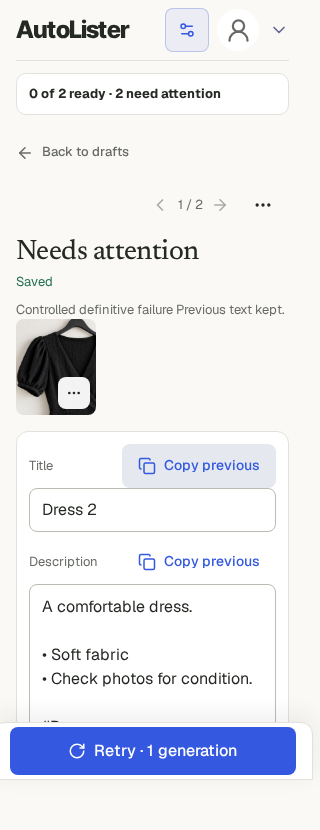
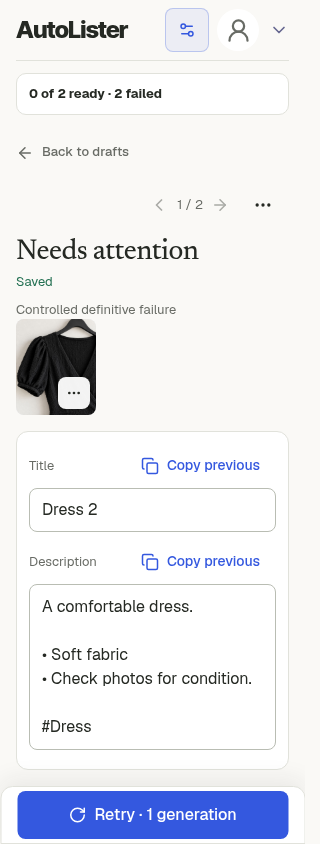
Document final verified batch and single flows with independent GO

diff --git a/docs/reviews/2026-10-16-final/acceptance.md b/docs/reviews/2026-10-16-final/acceptance.md
@@ -1,126 +1,70 @@
-# Batch and single-flow acceptance
+# Verification and limits
 
-Status: local candidate. Nothing in this review establishes production delivery or historical customer recovery.
+The final source and package passed root verification and a totally fresh independent review: **GO, no open confirmed findings**. Both minor copy findings were corrected and independently rechecked on the exact final commits. API `ea5966b` is deployed to production. Deployment 7136156767 succeeded in Production quick-vint-api, and the public app bundle plus all four shared helpers byte-match the final build. The extension production pipeline passed and pushed frontend `b1088b1`. The [Chrome Store upload-and-submit workflow](https://github.com/samicodesit/quick-vint-frontend/actions/runs/39012948783) is running its own checks. Upload and submission are not yet confirmed; Store version 1.4.16 remains live. See the [independent report](independent-review.md) for scope and limits.
 
-## Product contracts
+## Intended experience
 
-- Start remains an explicit seller action. Each extension listing opens in front while preparing unless the seller has paused auto-follow, started editing, or moved to another tab.
-- Brief connection loss waits and retries the same prepared request. It does not require another Start or Resume click.
-- Stop and a closed work tab preserve recovery data. Explicit Resume remains available when required.
-- Completion requires loaded host photos and stable generated fields. Hidden-tab waiting does not establish failure.
-- Recovery and late diagnostics remain bound to the originating account, batch, item and generation attempt.
-- The separate web app stays on its compact batch overview. Each ready row offers Review while later items continue. Entering a draft retains progress without automatic navigation or overwriting edits.
-- Queued replacement text cannot be copied or marked as a freshly generated result. After a definitive failure, existing Copy buttons explicitly say Copy previous, preserving access to earlier work without a paid retry. The item remains Needs attention, and automatic review navigation excludes it.
-- Phone upload uses a progress-based idle deadline, automatic bounded retry and explicit Cancel. A progressing upload can take longer than 45 seconds.
+- Extension: one explicit Start. Each listing tab opens while preparing. Editing, pausing following or moving elsewhere prevents focus stealing. Ready listings remain editable and accessible through Review.
+- Separate web app: stay on the current screen. Review, edit, copy and mark each ready item while later work continues. Navigation is explicit. The queue owns its order independently of browser Back/Forward.
+- Single-item upload remains reusable. Original photos, cancellation, account isolation and uncertain request identity stay protected.
+- Helper text is omitted unless it explains a necessary action, consequence or recovery. The paused web caption and duplicate extension completion summary were removed. Waiting and failure explanations remain.
 
-## Evidence available before manual acceptance
+## Current verification
 
-| Check | Result |
+| Scope | Evidence |
 | --- | --- |
-| Final frontend full production verification | Passed: 122 unit tests, 281 browser tests, two legacy opt-in skips, production build. Final focused matrix: 84 browser checks across three rounds. |
-| Backend full production verification | Passed, 994 tests, 4 opt-in skips; lint, types, format and build passed |
-| Established web browser suite | 24 checks passed, no page errors |
-| Web early-review, queued-replacement and failed-replacement journeys | Passed three rounds each; separate earlier 20-item batch passed |
-| Real HTTP phone journeys | 19 passed: socket loss, metadata interruption, Cancel, expiry, idle timeout, progressing slow upload and single-path reconnect |
-| Targeted MV3 fault and tracking matrix | Repeated three times during development; final full gate recorded separately |
+| API/site production gate | 994 tests passed, four existing opt-in skips. Lint, types, formatting and build passed on the final caption change. |
+| Frontend full gate | 124 unit checks and 290 browser checks passed, two existing opt-in skips; production build passed. |
+| Actual release ZIP | 35 payload files match the validation package. Its extracted, minified extension passed 48 browser checks over three rounds. |
+| Recovery and ownership | 108 recovery checks over three rounds; 20 ownership unit tests. |
+| Final repair matrix | 51 final browser checks over three rounds, including closed controllers, delayed or missing completion, another active batch, cleanup failure, cancellation, stale progress and tracking. |
+| Completion, copy and geometry | 36 checks over three rounds across completion, navigation, layout and signed URLs. |
+| Web history | Six journeys over three rounds, using reversed order and distinct second-batch items. Back, Forward, progress, reload, Resume, completion and Next were exercised. |
+| Web replacements and failure | Nine normal/queued/failed journeys over three rounds, plus fresh, legacy, missing-context and mixed-result cases. Failed items remain Needs attention; Copy previous never generates. |
+| Large web batch | 20 items completed once each. Early Review, editing, Copy, Next and Back worked while later items continued; no page errors. |
+| Full web UI | Latest 24-check journey passed without page errors after caption removal. |
+| Phone transport | 19 actual HTTP journeys, including file input, compression, multipart upload, socket loss/reconnect, Cancel, expiry, idle timeout and a progressing upload lasting about 60 seconds. |
 
-## Limits
+Final independent follow-up passed on API `ea5966b`, frontend `b1088b1` and the unchanged tested 1.4.17 package.
 
-The extension browser is actual Chromium with the candidate MV3 worker, storage, tab lifecycle and messaging. The page exposes the create-page selectors used by the extension, but is a controlled host fixture, not the full Vinted React application. Authentication, model responses and external storage are local fixtures. Model replay counts prove the client reused one logical request against that model; they are not production billing evidence.
+## What was reproduced and repaired
 
-Phone tests use actual browser file input, compression, multipart XHR, loopback HTTP, controlled socket termination, held responses and throttled upload. They establish transport behavior under those controlled conditions, not the physical cause of a customer's earlier failure.
+Old same-owner progress could replace a newer batch's controls and stop its heartbeat. Progress now joins the durable owner, batch, source controller, item, generation attempt, Stop revision, status and discard flag before side effects. A late pause cannot revive Resume after discard intent is saved.
 
-Native Orion/iOS, arbitrary browser suspension, live marketplace validation, paid generation and production deployment are not certified by these checks. Photos retained locally do not establish that a marketplace listing was published.
+Closing progress before a later host-photo failure dropped the existing pause diagnostic. Terminal tracking now runs before the renderer's visibility guard, retaining the original error and matching attempt.
 
-An older saved record with no verifiable owner is not adopted by guessing an account. Existing listing tabs and photos are not deleted. A seller can explicitly begin a fresh upload. This favors account isolation over automatic reuse of unverifiable legacy recovery data.
+A delayed completion message outlived the one-second controller deadline, while cleanup removed its completion proof. Completion now has a small per-batch receipt, saved atomically in the existing bounded review map. Temporary-file and finished-request cleanup still proceed. A delayed message or later heartbeat can recover that batch's ready state after a new batch starts. Closing an older completed overview cannot discard the newer batch. A closed controller cannot block a fresh setup.
 
-## Remaining acceptance
+Browser history could save the old review order into a newer queue. The queue now persists its own run order. Explicitly opening one of its items restores that order. Fresh-entry navigation excludes unresolved failures and unfinished items.
 
-- The final frontend gate passed on 0d76fb4. The refreshed 1.4.17 package matches the committed source, production minified content, six shared helpers and loaded offline worker. Another totally fresh independent review is required before production delivery.
-- Primary-agent manual acceptance is complete for normal extension batch, computer single, phone single, worker restart during waiting, explicit Stop/Resume, web batch early review/Copy/edit retention/Next/Mark as listed, 320px layout and web single. The 57-step screenshot review includes separately inspected real-HTTP phone fault-run screenshots. The primary chose the scripted browser actions step by step; automated suites remain separate evidence. The review caught an overloaded waiting-state calculation showing 99% and Queued. Failing regressions established this for both connection and server-commit waiting. The corrected Waiting display passed 15 targeted checks across three rounds and both pictured manual recovery variants were inspected. Exact ready counts remain visible.
-- Earlier independent reviews found real blockers. The terminal checkpoint, completed-request cleanup and missing expired-controller entry point are repaired and regressed as described below. Another totally fresh independent review of the final candidate is still required.
-- Production and extension Store delivery, with actual public artifact/status verification, remain separate.
+The full gate also caught a direct UUID call bypassing the established fallback, plus an obsolete synthetic message without an owned checkpoint. The fallback was reused and the test's checkpoint/message were brought into protocol. All five affected checks passed three rounds. Product ownership checks were kept strict.
 
-## Repairs following independent review
+## Primary manual browser review
 
-- An actual Chromium photo-fetch interruption reproduced an immediate batch pause before generation. The repaired download path retains successful files, retries missing files within two minutes, honors readable Retry-After, and remains cancellable. Three repeated rounds cover interruption with a real worker restart, definite 404, Stop, and a controlled elapsed-clock deadline. The primary repeated the pictured waiting and automatic-recovery journey. One modeled generation, one injection, two photos and one cleanup were confirmed.
-- A controlled definitive replacement rejection reproduced old output appearing fresh through Copy and Mark as listed. Failed items remain Needs attention. Existing Copy buttons explicitly identify previous text, with no automatic generation or payment. The existing footer offers Retry with its generation cost, then restores Mark as listed after success. Another regression reproduced an unresolved item appearing ready after a different item was retried. Library and batch rows now consult persisted failure state, including after reload. The primary operated the failure and successful-retry screens at 390px and 320px. The final library screenshot is separately inspected automated browser evidence.
-- A controlled storage-write failure reproduced Stop failing before reaching the work tab. Stop now interrupts work even when its checkpoint cannot be saved and returns an explicit failure response. The regression passes.
-- The actual visibility test failed without a Linux display and passed three rounds with Xvfb. Both GitHub workflows now provide Xvfb for browser tests. This preserves real active-tab checks.
-- Helper text is omitted by default under the new workspace and repository rule. The failure screen keeps the error and a short previous-text notice. Redundant queue instructions were removed. The necessary keep-open instruction remains because the web queue runs in the browser.
+The primary agent operated the extension batch, computer/phone single item and separate web flows. This included real tab activation, editing, worker interruption, loss of original tabs, retained photos, recovery controls and clipboard use. Controlled protocol faults were labelled separately from ordinary UI clicks.
 
-## Prepared release
+The latest extension walkthrough used four clothing photos, two groups and one Start. Both listings completed with two photos each and two generation requests. The refreshed overview keeps both Review links without a duplicate completion summary. The final manual completion check withheld the first batch's terminal message, started another batch, recovered Ready through native focus, and closed the old overview without touching the new batch. Both listings retained two clothing photos and there were two logical generation requests.
 
-Version 1.4.17 is packaged from frontend 3af5f837c64f144fcec9046d3ae7e061c7b491e9, coordinated with unchanged backend 4a082c052b223c819444640d0c28fec90cde86ee. Its 35-file payload matches the validation package. SHA256: c7f2243cb83f1437c816309a040257dce044eb41eeaa00fe404fd88c5ebc83eb. No upload or production push has occurred. Actual Store query 38993029024 reports 1.4.16 published at 100%, with no submitted revision. Another totally fresh independent review must finish before production delivery.
+The latest phone-width web check opened the first ready item while the second was paused by a reload test. Editing, Copy and Mark as listed worked before the remaining item resumed. Copy triggered no generation. Explicit Resume completed the remaining item, both photos stayed present, and 320px/390px screenshots were inspected.
 
-## Existing live selector evidence
+The screenshot below is that exceptional reload case. Normal generation continues while the seller reviews; it does not require pausing first.
 
-The latest available saved daily DOM-canary detail is dated 2026-10-15T16:43:02.950Z, extension 1.4.16, at `https://www.vinted.nl/items/new`. It reports passed, injected true, title text `Artikel plaatsen | Vinted`, and all required title, description, photo input, tools, Generate, Sign In, Phone and language flags true. It is historical selector evidence, not this candidate's full live behavior. The scheduled task's latest result was zero, which alone does not establish a newer successful canary. No canary or live flow was triggered for this review.
+![Ready item remains usable while later work is paused](web-paused-review-final.png)
 
-## Tracking source of truth
+## Evidence boundaries
 
-Extension events retain the generation attempt, batch and item joins. Mobile web uses its durable operation ID as the server request ID, joined through the authenticated request log and idempotency record. Its general analytics outcome event does not independently include the operation ID. Phone transport carries per-file operation IDs with a session-key join. Current controlled success does not establish historical recovery or credit refunds.
+Chromium ran the actual MV3 worker, tabs, messaging, storage and file inputs. The web app used actual IndexedDB, image preparation and clipboard. Phone fault tests used loopback HTTP and real controlled connection loss.
 
-The primary discarded a Retry screenshot captured while the queue was still preparing, then repeated the journey until the new title, enabled Copy, enabled Mark as listed and final ready count were observed. The retained screenshot shows the completed state.
+Auth, model, remote storage and the marketplace host were isolated fixtures. A forced host rejection or delayed response demonstrates the tested client boundary, not the historical cause of a customer's failure. Replay proves client request reuse, not production credit accounting.
 
-## Third-review follow-through
+The latest reused live DOM canary was from 15 October, extension 1.4.16, on the authenticated Vinted NL create page. It proved selectors and injection at that time, not the full candidate flow or live React behaviour.
 
-The third fresh review blocked the prior candidate for completed-request cleanup and expired-controller recovery. Actual Chromium red regressions reproduced both. Cleanup now preserves durable done proof until its owner-bound request is cleared, retries only local idempotent removal, and can finish on a duplicate completion or later start. Recovery deletion is conditional and shares the write queue; a separate red regression proved an old dismissal could otherwise erase a newer checkpoint.
+Native Orion/iOS, arbitrary OS suspension, live marketplace generation/publication, production billing and exact historical customer recovery remain unverified. No paid generation or live listing action was used. Passing local checks does not establish a refund, historical recovery or a published listing.
 
-Primary manual operation also found that returning once and then closing an expired controller removed the remaining return entry point. Controller closure now restores the existing control only for paused/expired work, with status-aware brief guidance. A completed checkpoint retained during cleanup never shows interruption guidance. The expiry screen omits repeated instructions and marks unfinished rows Expired.
+## Final copy follow-up
 
-The final 48-check MV3 fault/replay/owner matrix passed three rounds in /tmp/autolister-terminal-cleanup-green-v3.log. The primary repeated the expiry Return and Start new batch UI with actual foreground tabs; two prior listing photos stayed present. An earlier background-tab click timeout was corrected by foregrounding the controller. No product change was based on that automation timeout.
+The batch summary uses a compact failed count, while the item keeps its failure heading. The redundant previous-text sentence was removed because Copy previous already identifies retained output. The idle-expiry hint hides after expiry or cancellation. The primary repeated the failed-output flow at 320px and 390px, copied prior text without generation, reloaded and explicitly retried. The 24-check web journey and full 994-test API gate passed on these changes. Actual HTTP expiry and cancellation checks passed. No extension runtime or ZIP changed.
 
-The backend full gate passed 994 tests with four opt-in skips. One test fixture used the database session date while production budget logic uses UTC. The fixture was corrected, then its 22 tests passed in each of two opposite timezone environments and the complete gate passed. No production budget logic or migration changed.
+## Change size
 
-The frontend full run caught one stale assertion expecting the previous, longer recovery message. The assertion now checks the brief message and passed three repeated browser checks. It did not require a product change.
-
-## Fourth-review follow-through
-
-Concurrent Return clicks and Resume messages reproduced duplicate controllers and competing runners. Recovery controls now serialize across tabs. Conflicting buttons lock while metadata is checked. Metadata and cleanup use real AbortController cancellation with 20-second deadlines, including metadata body reading. Deadline regressions accelerate only that timer; the primary also observed the real 20-second metadata deadline and a successful subsequent explicit Resume.
-
-Cleanup HTTP 500 reproduced loss of both local discard records. Discard intent is now durable before remote cleanup. An unknown or partially completed discard offers only Retry discard, including after reload or local removal failure. It retains the exact request until acknowledgement. It does not promise that temporary server photos survived a failed cleanup. Successful retry removes matching recovery guidance and retains existing listing-tab photos. Wrong-account or stale-batch clear messages cannot hide another recovery notice.
-
-The primary manually confirmed one controller after Return from both retained listing tabs, disabled conflicting actions during Resume, discard-only recovery after reload, successful discard retry, and removal of obsolete Return guidance. Both prior listing photos stayed present. The pictured discard state omits redundant status rows, percentages and helper text.
-
-A held completion cleanup reproduced unnecessary waiting after generation was already durably complete. Listings ready and Done now proceed before housekeeping; late cleanup cannot erase a later batch. The primary operated a completed two-item batch while its cleanup response was held, then used Done before acknowledgement. Separate MV3 regressions cover the following batch and exact request isolation.
-
-Pending user discard is cancellation evidence. Its reload does not invent a second generation pause, while the original genuine rejection remains visible with its generation attempt. The final focused suites passed 45 current control/tracking/cleanup checks and 48 terminal/replay checks, each over three rounds. Six additional copy/discard checks passed after removing redundant helper text. Full frontend v9 verification passed: 117 unit tests, 263 browser checks, two legacy opt-in skips and the production build.
-
-The primary refreshed connection waiting, Stop, commit waiting and photo-recovery screenshots on the final copy. The photo journey uses actual clothing files, controlled fetch aborts and actual worker termination. The same client heartbeat message wakes the worker. Recovery completed with two listing photos, one injection, one modeled generation and one cleanup. This does not certify arbitrary OS suspension or native iOS behavior.
-
-The fourth reviewer withdrew the ownerless-pointer finding after confirming it matches the accepted policy: explicit fresh upload can replace inaccessible, unverifiable legacy recovery without adopting its account, reusing or deleting its server photos, or closing existing listing tabs. No such deletion or reuse was demonstrated.
-
-## Fifth-review follow-through
-
-A fresh background-context reproduction confirmed that wardrobe rewrite could take ownership while a batch remained durably running after worker restart. Batch Start, Resume and wardrobe admission now share a short serialized ownership check. The saved running record also blocks wardrobe admission before the first batch heartbeat. Concurrent Resume and wardrobe requests admit one runner.
-
-Actual Chromium confirmed that an older Resume could overwrite acknowledged Stop after held metadata returned. Stop now advances a durable revision, invalidating the older Resume and stale writes. A separate regression covers Stop after Resume reserves its runner, while old guidance is being cleared. A newly demonstrated tab-readiness race is also repaired: Stop before readiness prevents generation dispatch.
-
-The primary clicked the visible Resume and Stop controls in isolated Chromium. One exceptional stale-control check sent Stop from the authorized work-tab protocol while metadata was held. Releasing metadata started no new generation. A subsequent explicit Resume completed the same logical request with both photos. A real source-modal Stop before tab readiness issued zero generation requests and no cleanup. The primary inspected all three added screenshots.
-
-The UI previously labelled a Resume superseded by Stop as a resume failure. It now records the existing cancellation event with the same generation attempt. The original definitive rejection stays visible. This is verified against the captured event stream, not inferred from the wording on screen.
-
-The final focused matrix passed 105 browser checks over three rounds. The ownership suite passed 48 unit checks across three rounds. Full frontend verification then passed: 120 unit tests, 267 browser tests, two legacy opt-in skips and the production build. Another totally fresh independent review remains required before production delivery.
-
-## Sixth-review follow-through
-
-The sixth reviewer reproduced two blockers: losing all original tabs stranded a saved batch, and a second Resume queued before Stop could restart work after Stop was acknowledged. Both were reproduced on the loaded extension before repair. A fresh same-account create page can now reclaim the existing batch when no bound create page remains. It pauses unfinished work and offers explicit Resume or Discard, preserving the exact prepared request and photos. Concurrent fresh pages cannot both claim the controller. Expired and unfinished-discard states retain their existing restricted actions.
-
-Root checks also reproduced an open source tab on another page being mistaken for a reachable controller. Fresh recovery and Return now check the actual create-page URL, including a pending create navigation. Review navigation and recovery change controller in the same storage write, so Back to batch reaches the restored page. A failed restoration write blocks conflicting upload rather than silently ignoring saved recovery.
-
-Stop cancels all older queued Resume and not-yet-started Discard commands. A later explicit Resume or Discard remains usable. Late work-tab callbacks and Stop snapshots cannot overwrite a restored controller or newer progress. An already-begun discard remains durable and cannot be relabelled as safely stopped. These cross-tab race checks use controlled protocol messages from authorized extension content contexts; they are not claims that the ordinary UI exposes conflicting buttons.
-
-One repeated expiry check read storage when the cleanup request arrived, before its response and local removal finished. The assertion now waits for checkpoint removal and the recovery screen to close. That driver correction required no product change. No permanent panel or helper paragraph was added by these repairs.
-
-The final sixth-repair matrix passed 84 actual Chromium checks and 54 unit ownership/control checks across three rounds. The complete frontend gate then passed 122 unit tests, 281 browser tests, two opt-in skips and the production build. Root operated worker interruption, closure of every original tab, fresh-page recovery, explicit Resume and Back to batch. The exact prepared body was replayed, two logical items completed with one photo each, and actual native focus returned to the restored controller. Root also confirmed that Stop cancelled two old queued Resumes and a queued Discard without generation or cleanup, while a later explicit Discard succeeded. The new recovery screenshots were inspected. A fresh independent review is still required.
-
-## Seventh-review follow-through
-
-Fresh app entry reproduced loss of the web batch review order while failed drafts remained durable. Next could then open another unresolved failure. That click did not trigger generation or payment. Review order is now saved with the existing account-bound queue, limited to 20 IDs. Older queue records derive their scope from existing members. Fallback library navigation also excludes busy and failed items when page history or the queue is absent. Explicit Open and Retry remain available. No extension, style or helper-copy change was made.
-
-Fresh, legacy and missing-queue regressions failed before the repair. The final matrix passed 12 journeys over three rounds, including a mixed failed/ready case where Next opens the ready item. Normal, queued-replacement and failed-replacement journeys passed nine runs over three rounds. A 20-item batch and the full 24-check web suite passed without page errors. The mixed-case driver waits for the actual draft to change after Next rather than reading the old visible heading immediately.
-
-The primary operated fresh entry, Copy previous without generation, and explicit Retry. The exact review order and both photos remained. Normal Copy and Mark as listed returned after Retry, whose single-item scope hides Next. The other draft remained Needs attention. The primary inspected both new screenshots and 320px/390px bounds. The manually observed post-retry state offered no additional Next; positive mixed-result Next was checked in the three automated rounds. No product change was made for an initial manual assertion expecting a disabled button where the existing UI correctly hides it.
-
-The API complete production gate passed again: 994 tests, four opt-in skips, lint, types, formatting and build. The unchanged extension retains its passed 122-unit/281-browser gate and exact 1.4.17 package. The 57-step walkthrough is current. Another totally fresh independent review is required before delivery.
+Compared with the previous production commits, runtime product code changed by +1,905 / -398 lines across ten files. Tests, QA tools and documentation account for +5,711 / -344 lines, with 79 screenshot files in the production diff. Release configuration and agent rules account for +18 / -4 lines. The final screenshot walkthrough is maintained on this separate documentation branch.

diff --git a/docs/reviews/2026-10-16-final/independent-review.md b/docs/reviews/2026-10-16-final/independent-review.md
@@ -1,0 +1,99 @@
+# Fresh independent release review
+
+Date: 2026-10-17
+
+Verdict: **GO**. The two S3 copy and UX findings from the first pass were corrected in API commit `ea5966b1fdb34c792991113f465a60e5dfb06093` and independently rechecked below. I found no release-blocking safety, behavior, performance, or open copy defect in the final candidate. This is a review result, not a claim that anything has shipped.
+
+## Scope and identity
+
+- Frontend candidate: `b1088b13ff52385e681662aa593d029f740b1750`, reviewed against `d4e2eea3ab2c3142ab2fbbdc212822e6c48e1dc3`.
+- API/site final candidate: `ea5966b1fdb34c792991113f465a60e5dfb06093`, including bounded polish diff from `97b69956131e1ec84574b6bdedabfad719455b0f`, reviewed against `fee91d9473d5327d30b1b930188c0a7e3256fb22`.
+- Packaged extension: `/tmp/autolister-final-packaged-b1088b1`, source package metadata `/tmp/autolister-release-package-files.json`.
+- All product files remained read only. I used only disposable fixture browser contexts and API fixture preview4331. I did not access localhost:4187, existing profiles, live marketplace flows, paid generation, credentials, deployment, publication, or customer contact.
+
+## First-pass findings, resolved in final polish
+
+### S3. Web failure view repeats the failure state and can join two sentences without punctuation
+
+The fresh failure fixture renders `0 of 2 ready · 2 need attention` in the queue panel and `Needs attention` again as the editor heading. The same view then renders `Controlled definitive failure Previous text kept.` as one run-on line. The screenshot is `/tmp/autolister-final-independent-web-failure/failed-replacement.png`.
+
+The sources are:
+
+- `src/app/mobile-web/draftWorkspace.ts:1593-1597`, which sets the editor heading to `Needs attention`.
+- `src/app/mobile-web/draftWorkspace.ts:1713-1715`, which appends ` Previous text kept.` directly to the server error string.
+- `src/app/mobile-web/draftWorkspace.ts:2370-2376`, which keeps the nearby queue summary with `need attention`.
+
+This is a confirmed copy issue under the latest compact-copy rule. It does not alter retry, Copy previous, Next exclusion, or payment behavior, so it is not a release blocker. The fixture error text is controlled; the punctuation defect is in the concatenation logic.
+
+Final API polish removes the appended helper and changes the batch summary to `N failed`, while retaining the per-item `Needs attention` state and explicit `Copy previous` labels.
+
+### S3. Expired phone upload retains the stale open-session expiry hint
+
+The fresh expired transport case renders `Upload Expired` and tells the user to start a new phone upload, while the same screen still says `Expires after 1 hour idle.` The accepted screenshot is `/tmp/autolister-fresh-phone-expired/expired.png` and the transport case passed with one 410 request and no retry.
+
+The relevant source is `src/pages/phone-upload.html:575-577` for the always-visible hint and `:1493-1501` for the terminal expired state. The hint is also present in the production base, so this is release-present UX debt rather than a newly introduced behavioral regression. It conflicts with the terminal recovery message and the latest rule to keep only necessary action, consequence, or recovery text. It does not block release.
+
+Final API polish updates `setDraftControlsLocked` at `src/pages/phone-upload.html:1350-1359` to hide this hint when `state.terminal` or `state.cancelled` is true.
+
+## Independent checks run
+
+### Frontend and packaged extension
+
+- Source lifecycle, terminal checkpoint, ownership, stop, and discard checks: 13 passed in 1.6 minutes with the frozen frontend head.
+- Additional source review suite covering background tracking, completion cleanup, interruptions, orphan recovery, progress discard, recovery controls and deadlines, review navigation, terminal acknowledgment, and tracking: **54 passed in 4.2 minutes**.
+- Actual packaged extension at `/tmp/autolister-final-packaged-b1088b1`: request replay and account or tab isolation checks: **12 passed**.
+- `git diff --check` passed for the frontend and API candidate diffs.
+
+### API/site and web UI
+
+- Fresh web review against fixture preview4331: 2 items, Review while later work continues, progress retention, focus and edit retention, explicit Next and Back to batch, and one generation per item: passed. Result: `/tmp/autolister-final-independent-web-review/result.json`.
+- Failure review: failed replacement remains Needs attention, Copy previous does not generate, retained output stays copyable, explicit retry restores normal controls: passed with 2 controlled failed calls and 2 retained photos. Result: `/tmp/autolister-final-independent-web-failure/failed-result.json`.
+- Queued replacement review: passed with first ready title `Dress 4` and 6 controlled generations. Result: `/tmp/autolister-final-independent-web-queued/queued-result.json`.
+- History review passed with distinct=false, two stable review orders, two photos, and reload plus Resume, completion, and Next behavior.
+- Targeted API tests: `phoneUploadHtml.test.ts`, `draftWorkflow.test.ts`, `app.test.ts`, and `releaseContract.test.ts`: **47 passed**.
+
+### Phone transport
+
+These checks used real Chromium file selection, image preparation, multipart XHR, loopback HTTP, controlled socket termination, and a held response. They did not use live services.
+
+- Disconnect and recovery: passed, 15 attempts, 13 dropped sockets, both upload orders recovered, no cleanup.
+- Idle timeout and retry: passed, 46.2 seconds, 2 attempts, upload order 0 recovered, no cleanup.
+- Expiry: passed, one 410 request, no retry, terminal controls hidden.
+- Cancel: passed, 13 dropped attempts, no uploaded files, one cleanup request, no late restart.
+- Prepare retry: passed, two uploaded orders after nine dropped prepare attempts, no cleanup.
+
+Evidence JSON is in `/tmp/autolister-fresh-phone-disconnect/disconnect.json`, `/tmp/autolister-fresh-phone-idle/idle.json`, `/tmp/autolister-fresh-phone-expired/expired.json`, `/tmp/autolister-phone-transport/cancel.json`, and `/tmp/autolister-phone-transport/prepare.json`.
+
+### Package integrity
+
+An independent Node hash check matched all **35 of 35** extracted package files to `/tmp/autolister-release-package-files.json`, with no extra or missing files. The manifest is version `1.4.17`. Selected source hashes for the frontend background, content, manifest, API draft workspace, phone upload page, and listing styles also matched `/tmp/autolister-predeploy-product-hashes.json`.
+
+## Final polish addendum
+
+I rechecked only API `97b69956131e1ec84574b6bdedabfad719455b0f..ea5966b1fdb34c792991113f465a60e5dfb06093`. The bounded diff contains the queue-copy expectation updates, the web status correction at `src/app/mobile-web/draftWorkspace.ts:1713-1715`, the `N failed` batch summary at `:2370-2376`, and the terminal or cancelled expiry-hint hide at `src/pages/phone-upload.html:1350-1359`. No service, generation, or control behavior was added. Frontend `b1088b13ff52385e681662aa593d029f740b1750` and the tested package remain unchanged.
+
+Focused final checks passed:
+
+- Final API failure and Copy previous review: 2 controlled failed calls, 2 retained photos, explicit retry, no generation from copying. Evidence: `/tmp/autolister-final-independent-final-copy-failure/failed-result.json` and the inspected 390 pixel screenshot `failed-replacement.png`, which now shows `0 of 2 ready · 2 failed`, one `Controlled definitive failure` line, and `Copy previous` controls.
+- Final mixed failure and reload review: passed with one failure, one ready item, Next enabled only for the ready item, 2 retained photos, and no regeneration. Output: `/tmp/autolister-final-independent-final-copy-mixed`.
+- Final phone expiry: passed with one 410 request, no retry, terminal controls hidden, and the expiry hint absent from the inspected screenshot `/tmp/autolister-final-independent-final-copy-expired/expired.png`.
+- Final phone cancel: passed with 13 dropped attempts, no uploaded files, one cleanup request, no late restart, and the cancellation screen hiding the expiry hint. Evidence: `/tmp/autolister-final-independent-final-copy-cancel`.
+- Final targeted API tests: `phoneUploadHtml.test.ts`, `draftWorkflow.test.ts`, `app.test.ts`, and `releaseContract.test.ts`, **47 passed**.
[1 lines of base64/hex data omitted]
+
+The final candidate therefore has **GO** status with no open confirmed findings. The minimal-copy rule is satisfied in the checked success, failure, expiry, and cancellation states. The full-gate and native or production limits below remain unchanged.
+
+## Copy, UX, and accessibility assessment
+
+Normal web success is compact at 320 and 390 pixels. It exposes Review as each item is ready, retains the single progress panel while work continues, keeps Mark as listed visible, and does not show recovery guidance after success. The active queue text `Keep AutoLister open while preparing.` is a necessary action and consequence. The first-pass failure copy issues above are resolved in the final polish. Final failure copy retains the useful recovery action, Copy previous, and explicit retry cost without repeating the batch failure state or appending redundant helper text.
+
+Phone waiting state uses the necessary message `Waiting for your connection. Your photos are kept here.` and keeps Cancel available. It has no horizontal overflow in the tested 390 pixel transport cases. Final expired and cancelled states hide the stale open-session hint. Screenshots and DOM checks do not establish full keyboard, screen reader, native Orion, or iOS accessibility behavior.
+
+## Limits
+
+- The host is a selector fixture, not full live Vinted React or production service behavior.
+- Auth, model, remote storage, and billing are controlled. Replay proves client identity reuse, not production credit or refund behavior.
+- Native Orion and iOS behavior, arbitrary OS suspension, and exact historical customer recovery remain unverified.
+- No paid generation, live marketplace action, customer contact, deployment, or Store upload was performed.
+- Root's ledger records the prior full gates, including 124 frontend unit tests, 290 browser tests, 994 API tests, production build checks, 51 lifecycle repeats, 48 package checks, 20-item web coverage, 24 web checks, and 19 phone HTTP journeys. I treated those as recorded context and independently ran the focused checks listed above.
+

diff --git a/docs/reviews/2026-10-16-final/README.md b/docs/reviews/2026-10-16-final/README.md
@@ -1,6 +1,6 @@
 # AutoLister flow review
 
-Current local candidate, captured 16-17 October 2026 (Amsterdam time). **Nothing here is production delivery proof.**
+Captured from the final verified candidate on 16-17 October 2026 (Amsterdam time). See [delivery status and verification](acceptance.md). Screenshots show local controlled tests.
 
 The primary agent operated and inspected the extension batch, single computer, single phone and separate web app flows. AI, auth and marketplace services were isolated. The phone transport section is from the real HTTP fault-test run and was visually inspected separately. No paid generation or live marketplace actions were used.
 
@@ -85,7 +85,7 @@ Second result keeps both photos and generated fields. Exactly two logical model 
 
 ### 10. Batch overview keeps review links
 
-Each prepared listing remains accessible; no duplicate navigation banner.
+One completed count and explicit Review links. The duplicate completion summary and progress bar are omitted.
 
 ![Batch overview keeps review links](batch-10-detail.png)
 
@@ -303,11 +303,11 @@ At 320px the progress, Copy controls and Mark as listed fit without horizontal o
 
 ![Small phone review](web-10.png)
 
-### 45. Reopening the web app preserves failed-item review
+### 45. Reload preserves failed-item review
 
-Primary-operated Chromium at 390px. Fresh app entry restored the exact batch review order. Next ready stayed disabled between unresolved failures. Copy previous copied the retained title without generation. The rejection was a controlled HTTP 422, not a live provider request.
+Primary-operated Chromium at390px. Reload kept the failed item open with the batch failure count. Next ready remained disabled between failures. Copy previous copied retained text without generation. The HTTP422 was controlled.
 
-![Reopening the web app preserves failed-item review](web-fresh-entry-failed.png)
+![Reload preserves failed-item review](web-fresh-entry-failed.png)
 
 ### 46. Explicit Retry restores ordinary controls
 
@@ -317,13 +317,13 @@ Primary clicked the existing paid-cost Retry in the local fixture. Normal Copy a
 
 ### 47. Failed replacement identifies the previous text
 
-Primary-operated browser with a controlled HTTP422. Existing Copy previous buttons preserve earlier work without another paid generation. Needs attention remains visible; the footer offers an optional explicit Retry with its cost.
+Primary-operated Chromium with a controlled HTTP422. The error is shown once; Copy previous preserves earlier work without generation. The batch count stays visible and Retry shows its cost.
 
 ![Failed replacement identifies the previous text](web-failed-replacement.png)
 
 ### 48. The failure state at 320 pixels
 
-Primary-operated viewport check. No horizontal overflow or extra recovery panel.
+Primary-operated320px viewport check after final copy cleanup. Copy previous and Retry remain reachable, with no horizontal overflow.
 
 ![The failure state at 320 pixels](web-failed-small.png)
 
